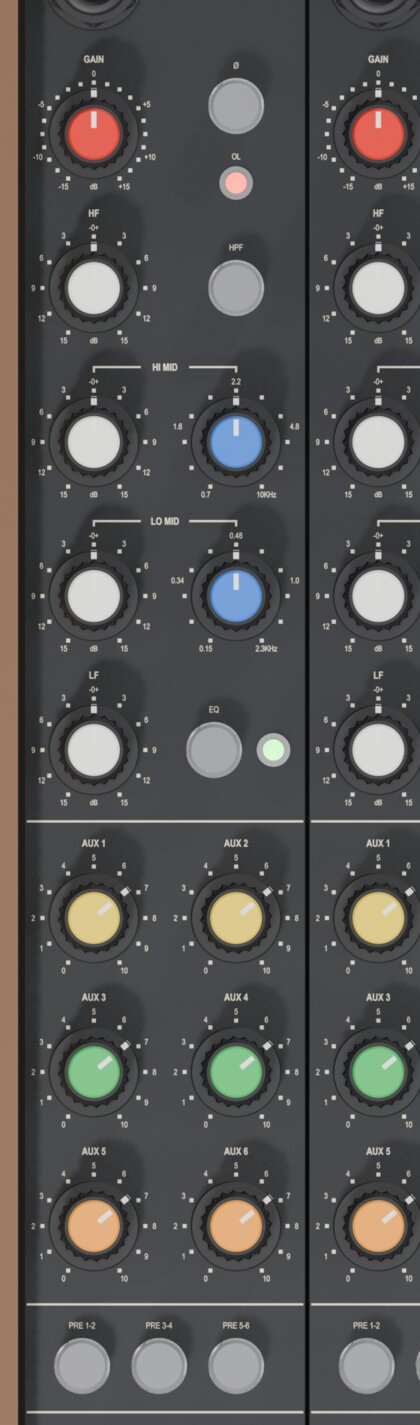
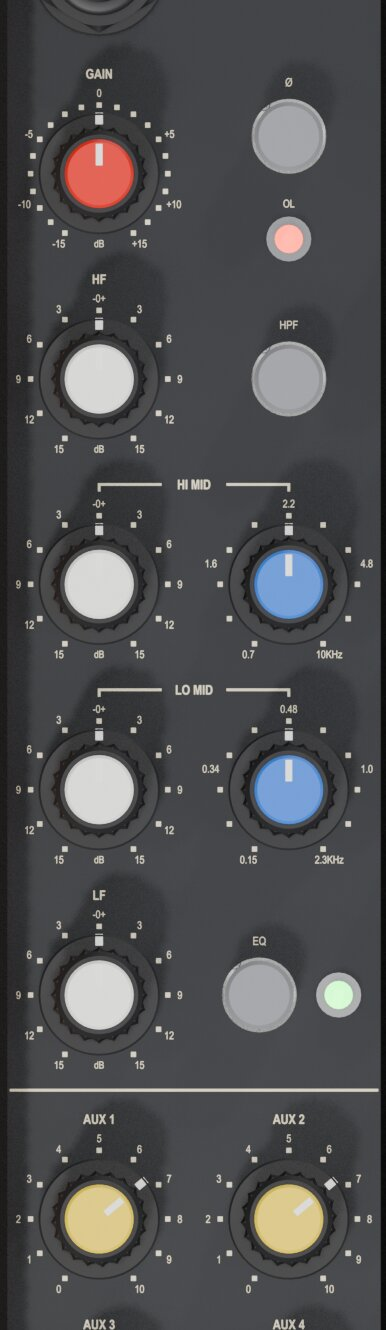
README: one-module strip crop matching the D201 drawing, comments off the command lines
The strip picture showed a sliver of the next strip; it is now one module, GAIN to AUX 1/2,
the same range as the D201 crop beside it. Code-block comments sit on their own lines, so
nothing scrolls sideways on GitHub; the 3D export lists all three modules.

diff --git a/README.md b/README.md
@@ -36,8 +36,8 @@ netlists and simulated in ngspice.
 
 <table>
 <tr>
-<td><img src="docs/img/strip_panel.jpg" width="300" alt="Strip panel with Delta-style print"></td>
-<td><img src="docs/img/delta_d201_top.png" width="260" alt="Soundcraft 200 Delta D201 input drawing"></td>
+<td><img src="docs/img/strip_panel.jpg" width="280" alt="Strip panel with Delta-style print"></td>
+<td><img src="docs/img/delta_d201_top.png" width="300" alt="Soundcraft 200 Delta D201 input drawing"></td>
 </tr>
 <tr>
 <td><em>Strip panel print in the Delta's style</em></td>
@@ -124,14 +124,17 @@ The schematics are generated: edit the generator, then regenerate and verify eve
 strip:
 
 ```bash
-.venv/bin/python tools/gen.py channel_strip.kicad_sch            # also writes jack_board.kicad_sch
+# writes channel_strip.kicad_sch and jack_board.kicad_sch
+.venv/bin/python tools/gen.py channel_strip.kicad_sch
 for s in channel_strip jack_board; do
   $KC sch export netlist -o $s.net $s.kicad_sch
   .venv/bin/python tools/verify.py $s.net ${s}_intended.json
-  python3 tools/check_fp.py $s.net                                # symbol pins vs footprint pads
+  # symbol pins vs footprint pads
+  python3 tools/check_fp.py $s.net
   $KC sch erc --severity-all $s.kicad_sch
 done
-python3 tools/sim_netlist.py channel_strip.net jack_board.net     # strip only: both netlists through the ribbon
+# strip only: both netlists joined by the ribbon, simulated in ngspice
+python3 tools/sim_netlist.py channel_strip.net jack_board.net
 ```
 
 The other generators work the same way:
@@ -151,10 +154,13 @@ compares the mid-band tunings for a given pot value.
 Placement only. Each script refuses to overwrite a board that already has routing:
 
 ```bash
-tools/build_strip_pcb.sh                     # strip main board + jack board
-$KPY tools/place_group.py                    # group + its jack board
-$KPY tools/place_master.py                   # master + its jack board (~3 min)
-$KPY tools/place_jig.py; $KPY tools/place_psu.py
+# strip main board + jack board
+tools/build_strip_pcb.sh
+# group, master (~3 min) and their jack boards
+$KPY tools/place_group.py
+$KPY tools/place_master.py
+$KPY tools/place_jig.py
+$KPY tools/place_psu.py
 ```
 
 Each run prints a placement report: decoupler-to-supply-pin distances and the reach of high-impedance input
@@ -163,9 +169,15 @@ networks. Parity DRC needs the board next to a schematic of the same name; see `
 Part models and the 3D console:
 
 ```bash
-python3 tools/models3d/check.py --wrl --kicad          # part models vs footprints; writes goa-console.3dshapes
-$KPY tools/export_3d.py channel_strip_v4.kicad_pcb jack_board.kicad_pcb > render/strip.json   # likewise group, master
-/Applications/Blender.app/Contents/MacOS/Blender -b --factory-startup --python tools/console_3d.py -- render
+# part models vs footprints; writes goa-console.3dshapes
+python3 tools/models3d/check.py --wrl --kicad
+# placed boards to JSON, one file per module
+$KPY tools/export_3d.py channel_strip_v4.kicad_pcb jack_board.kicad_pcb > render/strip.json
+$KPY tools/export_3d.py group.kicad_pcb group_jack_board.kicad_pcb > render/group.json
+$KPY tools/export_3d.py master.kicad_pcb master_jack_board.kicad_pcb > render/master.json
+# builds render/goa_console.blend and renders the views
+BLENDER=/Applications/Blender.app/Contents/MacOS/Blender
+$BLENDER -b --factory-startup --python tools/console_3d.py -- render
 ```
 
 ## Conventions
